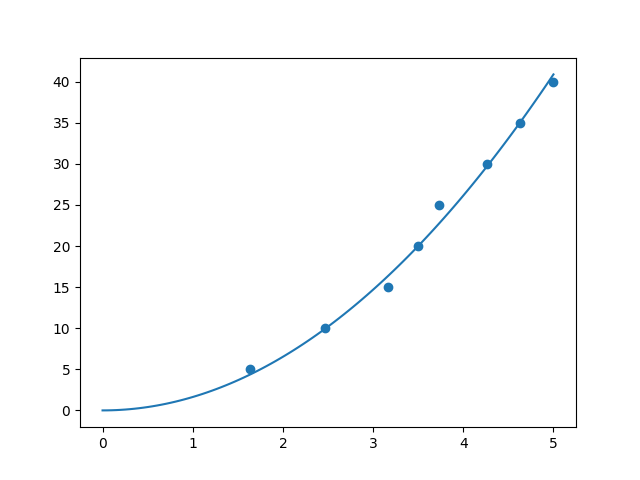
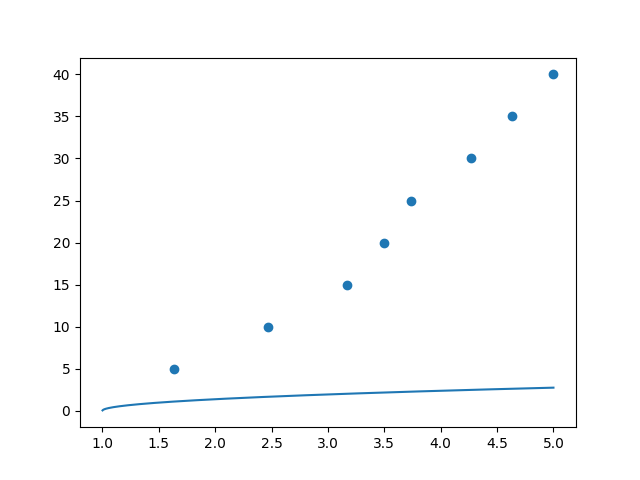
I'm hungry

diff --git a/thermal_exe.py b/thermal_exe.py
@@ -4,24 +4,67 @@ import pandas as pd
 import numpy as np
 import matplotlib.pyplot as plt
 
-up_df = pd.read_csv("thermal_upwards.csv")
+up_df = pd.read_csv("thermal_up.csv")
 down_df = pd.read_csv("thermal_downwards.csv")
 
 print(down_df)
 
-# pandas is quite retarted:
-# up_df.columns = up_df.columns.str.strip()
-# down_df.columns = down_df.columns.str.strip()
-
 print(up_df.columns)
 print(down_df.columns)
 
+REL_COUNT_ERR = 1/10 # 1 mistake every 10 counts
+error_up_N = np.sqrt(up_df["N"]*REL_COUNT_ERR**2)
+error_down_N = np.sqrt(down_df["N"]*REL_COUNT_ERR**2)
+error_up_T = 0.2
+error_down_T = 0.1
 
-plt.scatter(up_df["temperature"], up_df["N"], label="up")
-plt.scatter(down_df["temperature "], 300 - down_df["N"], label="down")
-plt.xlabel("temperature")
-plt.ylabel("N")
+plt.errorbar(up_df["T"], up_df["N"],
+             xerr=error_up_T, yerr=error_up_N,
+             label="up",
+             marker='.', linestyle='', capsize=5)
+plt.errorbar(down_df["temperature "], 300 - down_df["N"],
+             xerr=error_down_T, yerr=error_down_N,
+             label="down",
+             marker='.', linestyle='', capsize=5)
+
+
+from scipy.optimize import curve_fit
+
+accurate_df = pd.read_csv("accurate-thermal.csv")
+
+REL_COUNT_ERR = 1/10 # 1 mistake every 10 counts
+error_N = np.sqrt(accurate_df["N"]*REL_COUNT_ERR**2)
+error_T = 0.2
+
+def model(T, thermal_coefficient):
+    T_0 = 24.2
+    return thermal_coefficient * (T - T_0)
+
+params_accurate, error_matrix = curve_fit(model, accurate_df["T"], accurate_df["N"])
+print(f"accurate: {params_accurate} pm {np.sqrt(np.diag(error_matrix))}")
+
+params_up, error_matrix = curve_fit(model, up_df["T"], up_df["N"])
+print(f"most points: {params_up} pm {np.sqrt(np.diag(error_matrix))}")
+
+slope = params_up[0]
+wavelength = .5 # μm
+initial_length_rod = 8.98e6 # μm
+thermal_expension_coefficient = slope * wavelength / (2*initial_length_rod)
+print(f"thermal expansion coefficient = {thermal_expension_coefficient}")
+
+fit_T = np.linspace(20, 65, 1000)
+fit_N = model(fit_T, *params_accurate)
+
+plt.plot(fit_T, fit_N)
+plt.errorbar(accurate_df["T"], accurate_df["N"], xerr=error_T, yerr=error_N,
+             marker='.', linestyle='', capsize=5,
+             label="up - equilibrium")
+
+
+plt.grid(which="major", linewidth=.8)
+plt.minorticks_on()
+plt.grid(which="minor", linewidth=.3)
+plt.xlabel("temperature (°C)")
+plt.ylabel("number of transitions")
 plt.legend()
-
 plt.savefig("plots/thermal.png")
-plt.show()

diff --git a/index_exe.py b/index_exe.py
@@ -18,23 +18,43 @@ print(df[["N", "angle"]])
 plt.scatter(df["angle"], df["N"])
 utils.mkdir("plots")
 
-def model(angle, n_glass):
-    t = 0.825e5 # cm
-    wavelength = 0.53
-    return 1 / wavelength * (n_glass - 1) * (t/np.cos(np.radians(angle)) - t)
+# def model(angle, n_glass):
+#     t = 0.825e5 # cm
+#     wavelength = 0.53
+#     return 1 / wavelength * (n_glass - 1) * (t/np.cos(np.radians(angle)) - t)
 
-params, error_matrix = curve_fit(model, df["angle"], df["N"])
+def model(angle, n):
+    try:
+        t = 0.825e5 # cm
+        wavelength = 0.53
 
-# (angle, t, n_glass, n_air, wavelength) = params
+        a = wavelength**2
+        b = (n - (wavelength * angle**2)/2)/t
+        c = wavelength * (1 - angle)
 
-angle_array = np.linspace(0, 5, 100)
-fitted_N_array = model(angle_array, *params)
+        D = b**2 - 4*a*c
+
+        if D < 0:
+            raise   
+        
+        return (-b + np.sqrt(b**2 - 4*a*c))/(2*a)
+    except Exception as e:
+        return np.nan
+
+# def model(angle, n):
+#     term1 = N * 
+
+params, error_matrix = curve_fit(model, df["angle"], df["N"], p0=[1])
+
+angle_array = np.linspace(0, 5, 1000)
+fitted_N_array = [model(angle, *params) for angle in angle_array]
 
 plt.plot(angle_array, fitted_N_array)
 
-# plt.show()
 print(f"Index: {params[0]}")
 plt.savefig("plots/my-formula.png")
+
+print(params)
 plt.show()
 
 

diff --git a/thermal_acurate_exe.py b/thermal_acurate_exe.py
@@ -1,0 +1,27 @@
+#!/bin/python3
+
+import numpy as np
+import pandas as pd
+import matplotlib.pyplot as plt
+from scipy.optimize import curve_fit
+
+accurate_df = pd.read_csv("accurate-thermal.csv")
+
+REL_COUNT_ERR = 1/10 # 1 mistake every 10 counts
+error_N = np.sqrt(accurate_df["N"]*REL_COUNT_ERR**2)
+error_T = 0.2
+
+def model(T, thermal_coefficient, T_0):
+    return thermal_coefficient * (T - T_0)
+
+params, error_matrix = curve_fit(model, accurate_df["T"], accurate_df["N"])
+
+fit_T = np.linspace(30, 65, 1000)
+fit_N = model(fit_T, *params)
+
+plt.plot(fit_T, fit_N)
+plt.errorbar(accurate_df["T"], accurate_df["N"], xerr=error_T, yerr=error_N,
+             marker='.', linestyle='', capsize=5, ecolor="red")
+print(params)
+plt.show()
+
